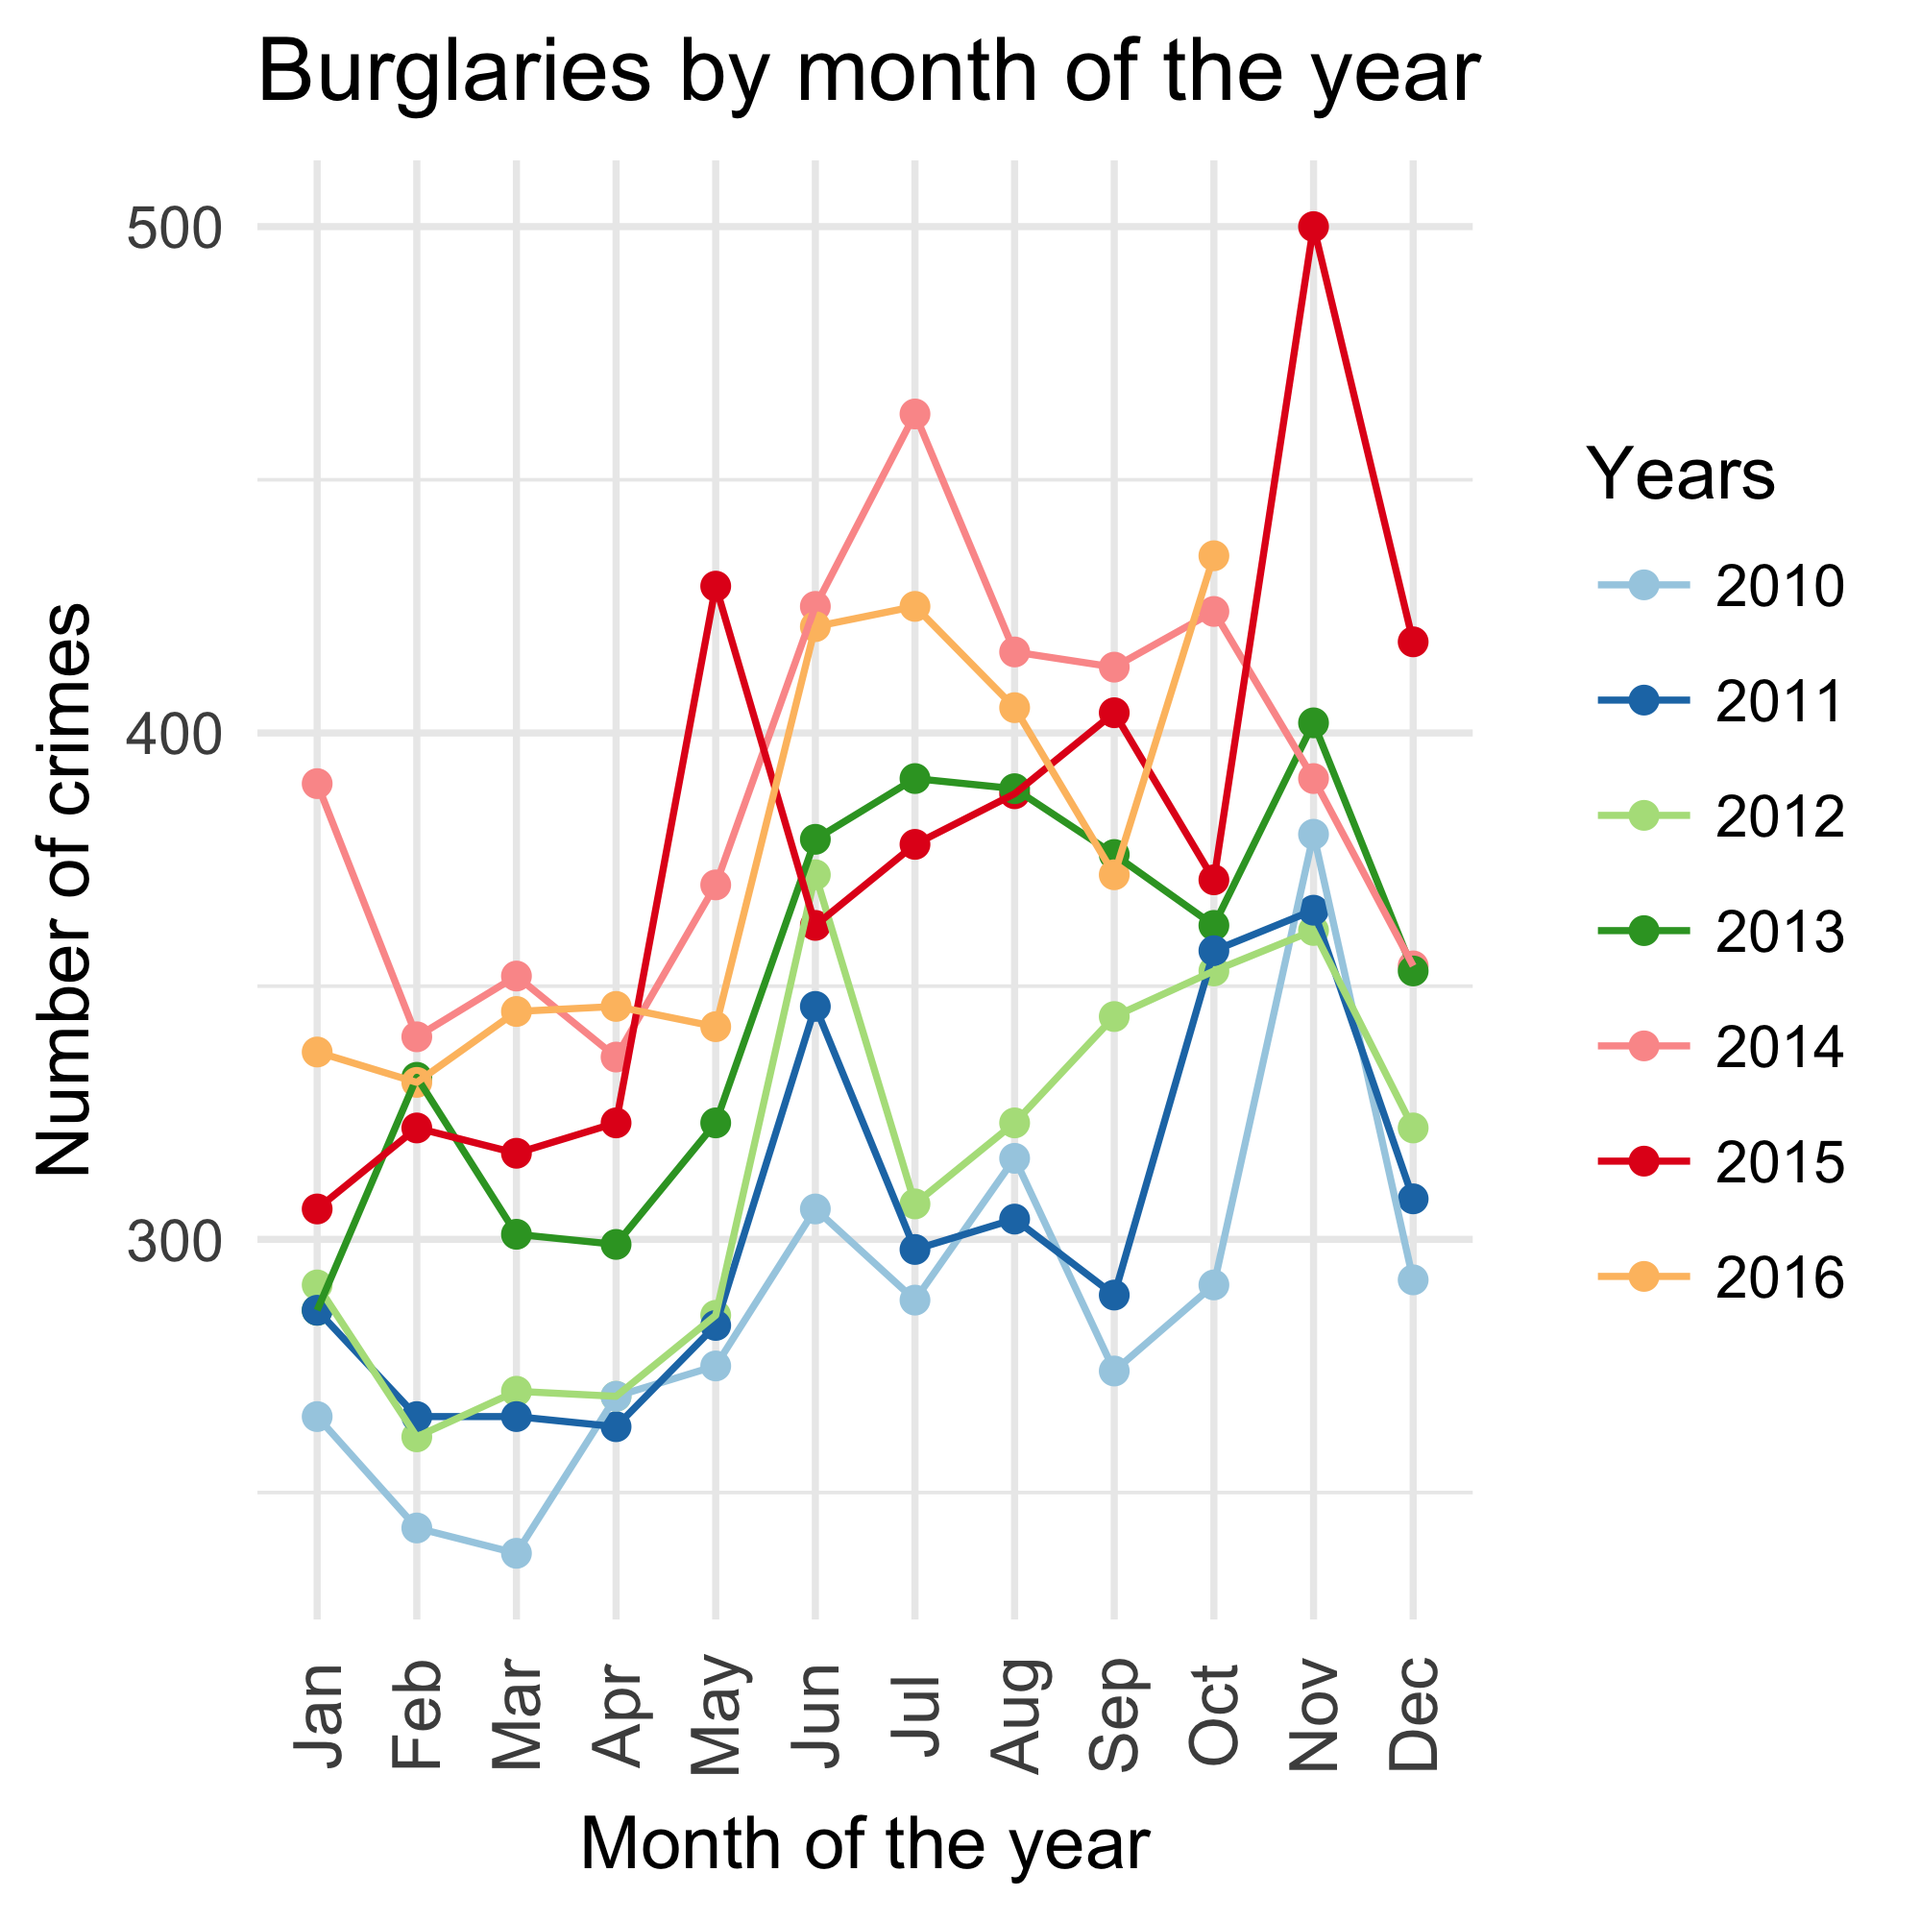
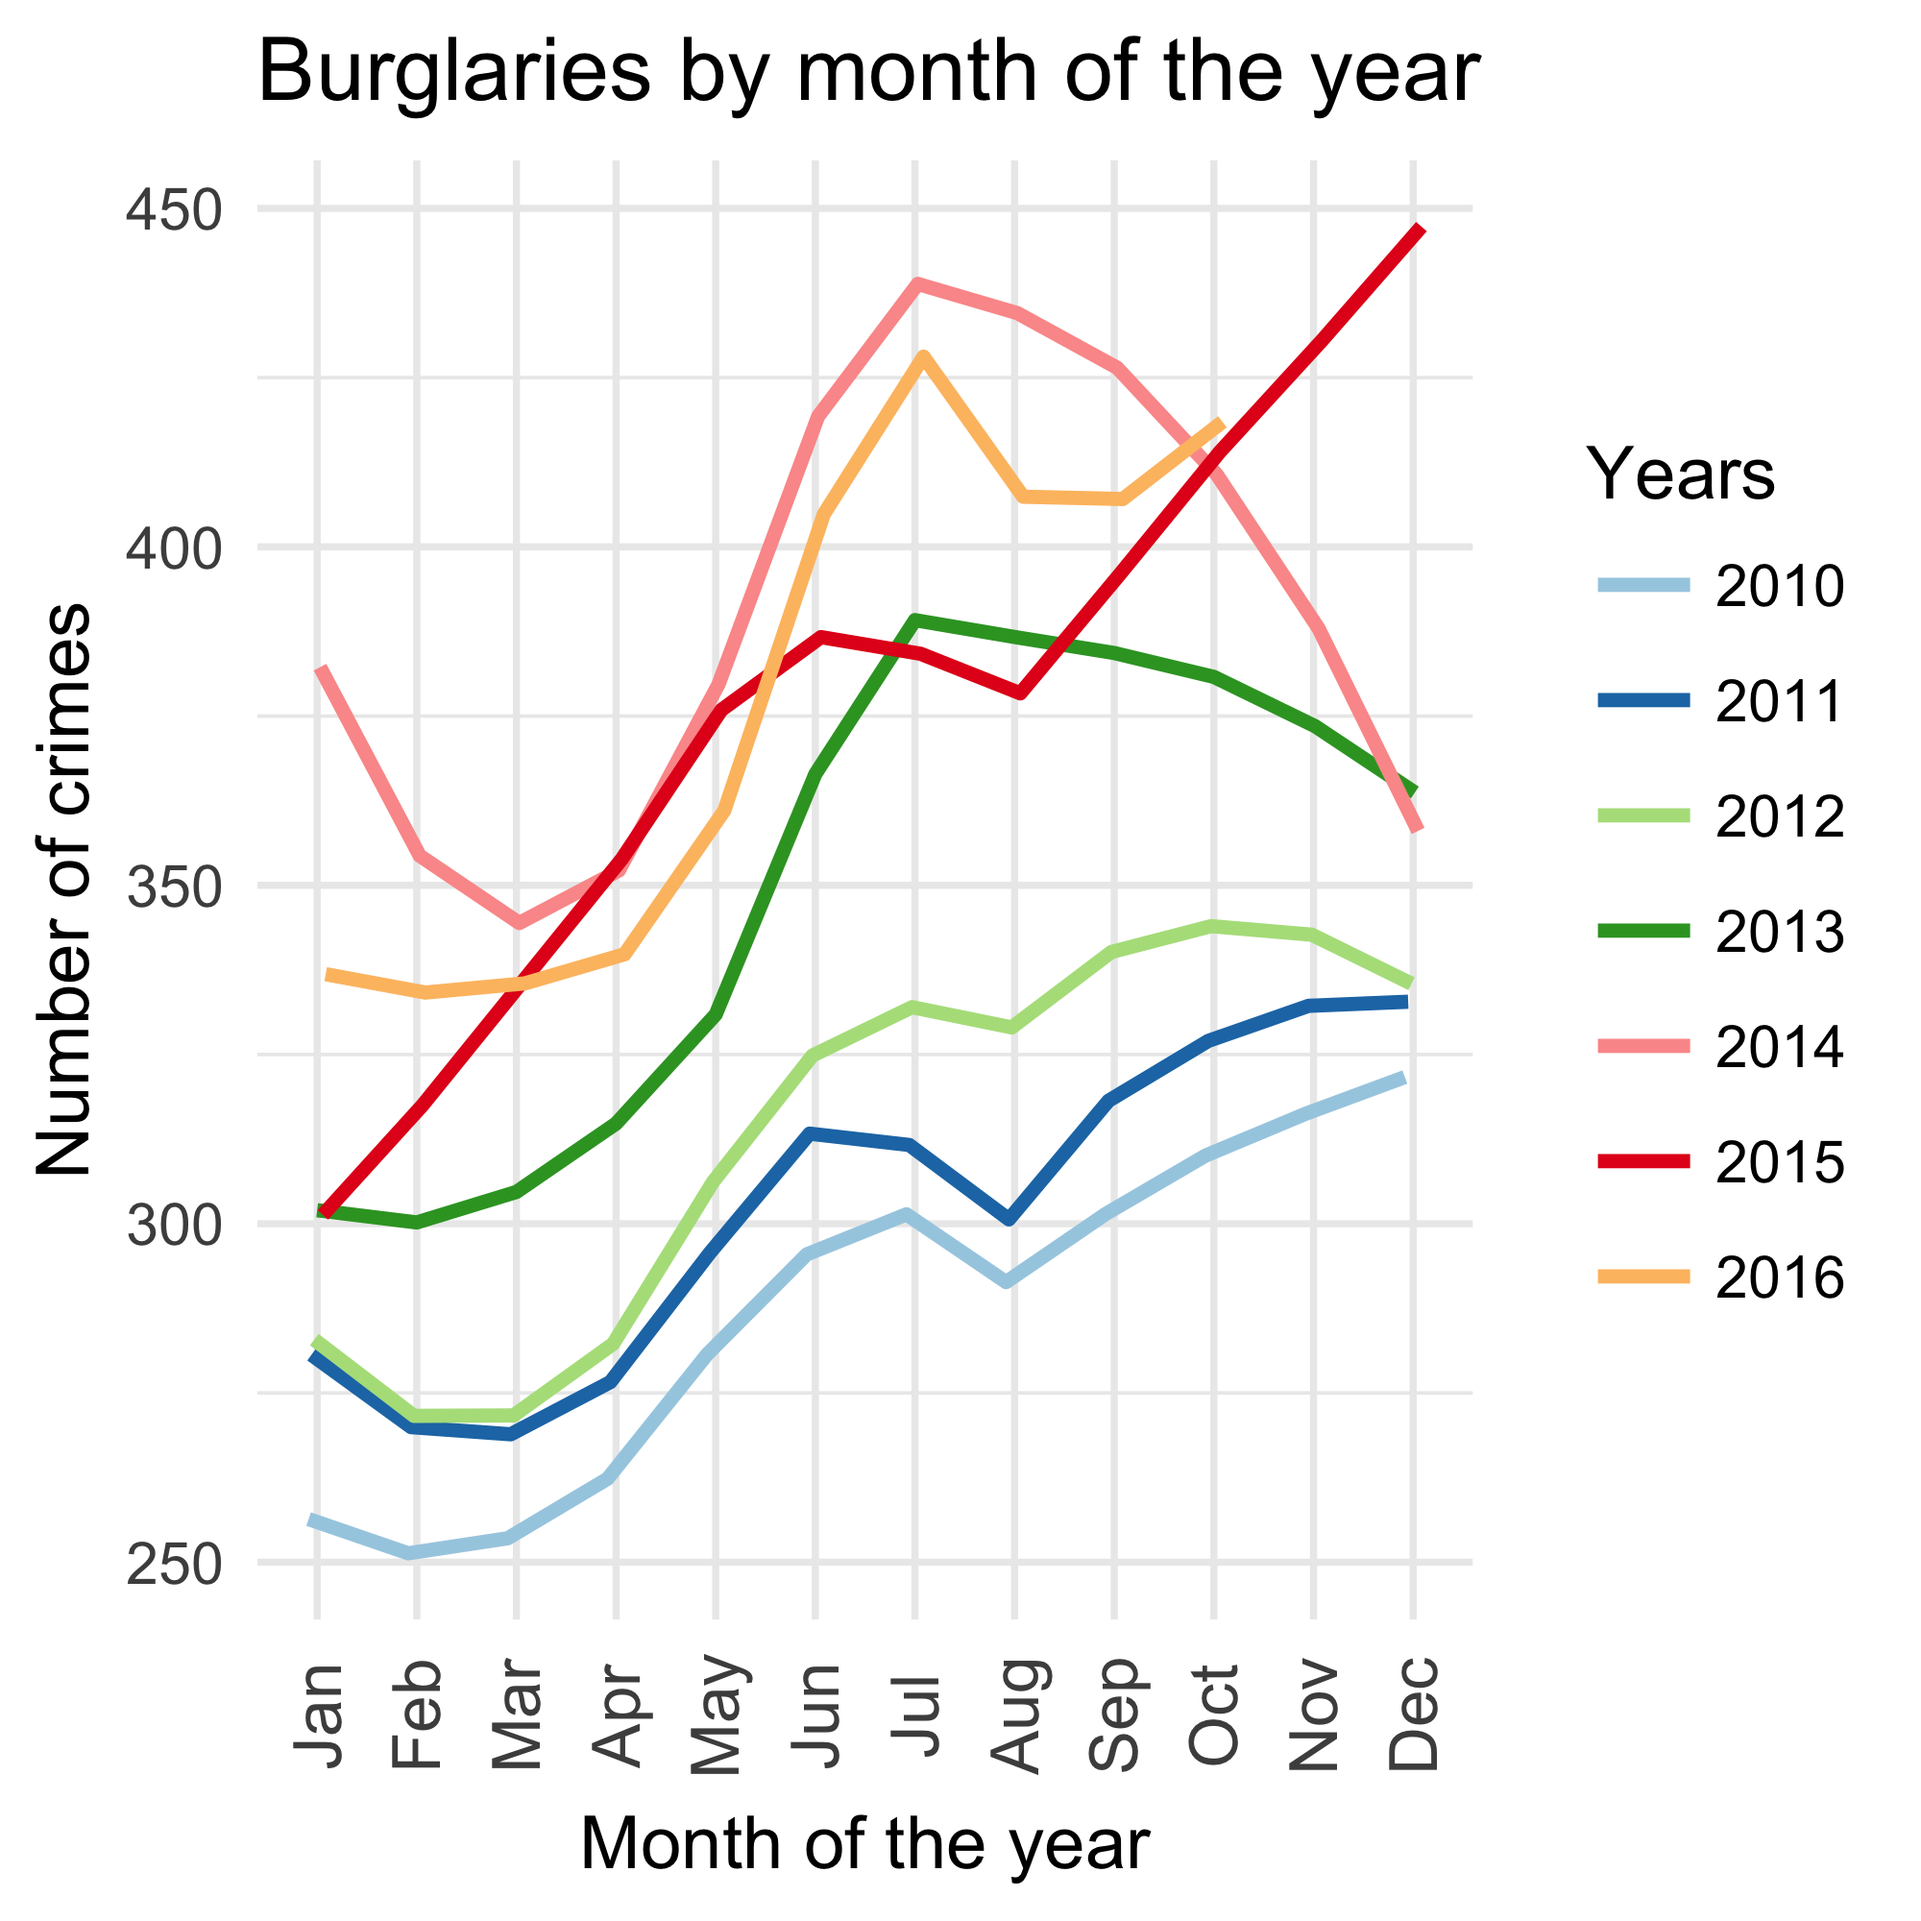
Edits to Bihar post

diff --git a/_posts/2017-1-14-bihar_crime_alcohol_ban.md b/_posts/2017-1-14-bihar_crime_alcohol_ban.md
@@ -13,8 +13,10 @@ A few days back, a couple of newspapers carried a report on how crime rates in B
 
 The key claim of rising crime post the April ban of alcohol was the following graph, generated from figures obtained from the Bihar police.
 
-## More data
-We can't be sure if the rise in crimes we're seeing is not entirely out of the usual trend- perhaps in Bihar, over the year April-October is indeed a period of rising crime? To verify this I prepared the following graphs of crime by each month.
+## Seasonality of crimes
+We can't be sure if the rise in crimes we're seeing is not entirely out of the usual trend- perhaps in Bihar, over the year April-October is indeed a period of rising crime? In other words, crime in Bihar could be season- increasing in one month, falling in other. 
+
+ To verify this I prepared the following graphs of crime by each month.
 
 ![Crimes per year]({{ site.url }}/assets/images/Bihar_Crime/Crimes_per_year.png)
 
